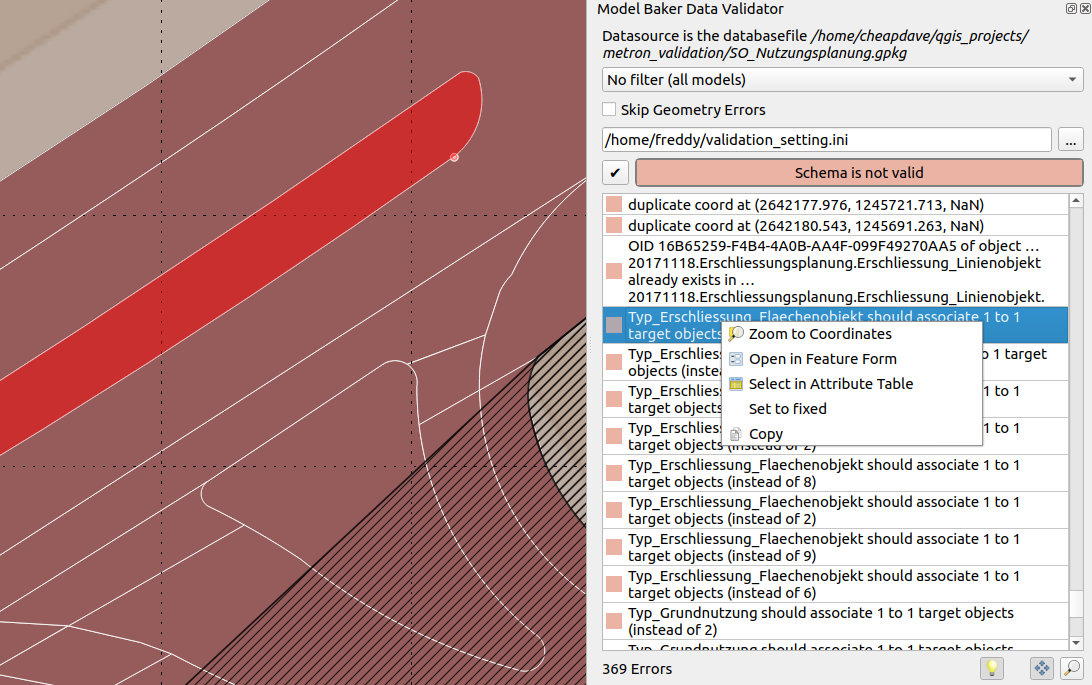
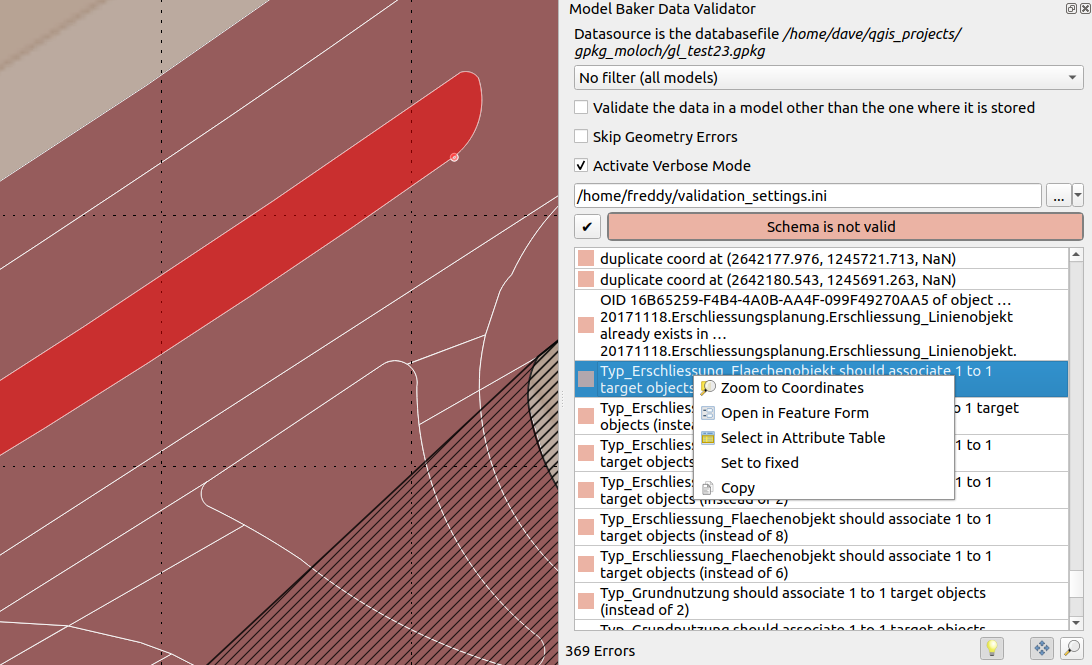
validation stuff in docu

diff --git a/docs/docs/user_guide/validation.md b/docs/docs/user_guide/validation.md
@@ -29,6 +29,12 @@ When the checkbox is activated, geometry errors are ignored and the validation o
 !!! Note
     In the backend the parameters `--skipGeometryErrors` and `--disableAreaValidation` are set.
 
+## Verbose Mode
+
+![validation_skipgeometryerrors](../assets/validation_verbose.png)
+
+Activate verbose mode to get more (mostly technical) information in the error messages.
+
 ## Configuration File
 
 It's possible to enable/disable and name constraints of the current model via meta attributes. For the configuration of those, see the chapter [Set Meta Attributes in the Config File](#set-meta-attributes-in-the-config-file) below.
@@ -181,3 +187,11 @@ See for all the global configurations the official [documentation of ilivalidato
 On running the validation `ili2db` is used in the background with the parameter `--validate`. This means no export of the data is needed. The output is parsed by Model Baker and provided in the result list.
 
 Entries of the type `Error` and `Warning` are listed.
+
+## ili2db with `--plugins` in the background
+
+In very special cases, ili2db plugins are used to validate with additional and non-native validation functions. If you have such plugins, you have to store them in your QGIS profile folder, next to the ili2db JAR file. E.g.:
+
+```
+...your-profile/python/plugins/QgisModelBaker/libs/modelbaker/iliwrapper/bin/ili2pg-5.4.0/
+```
